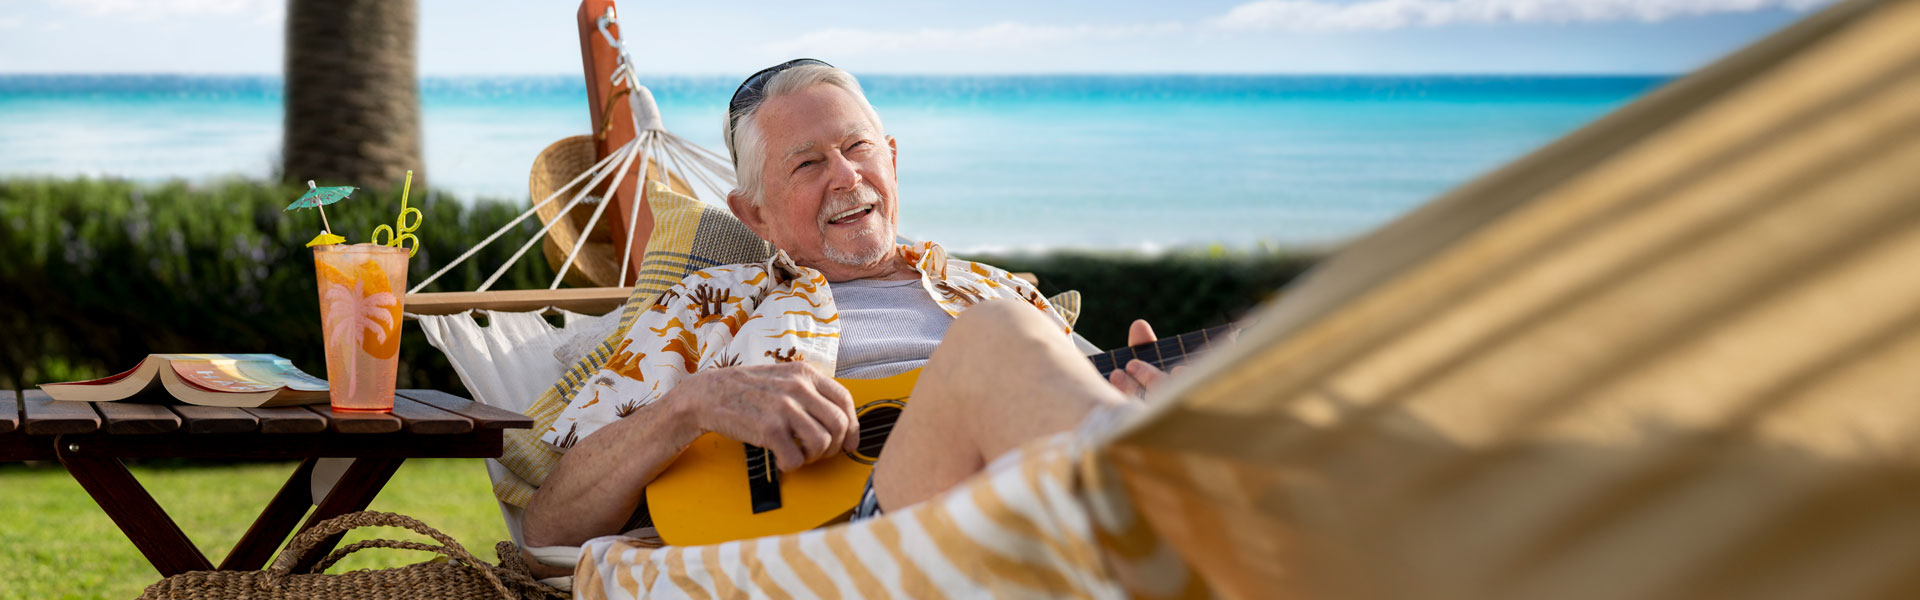
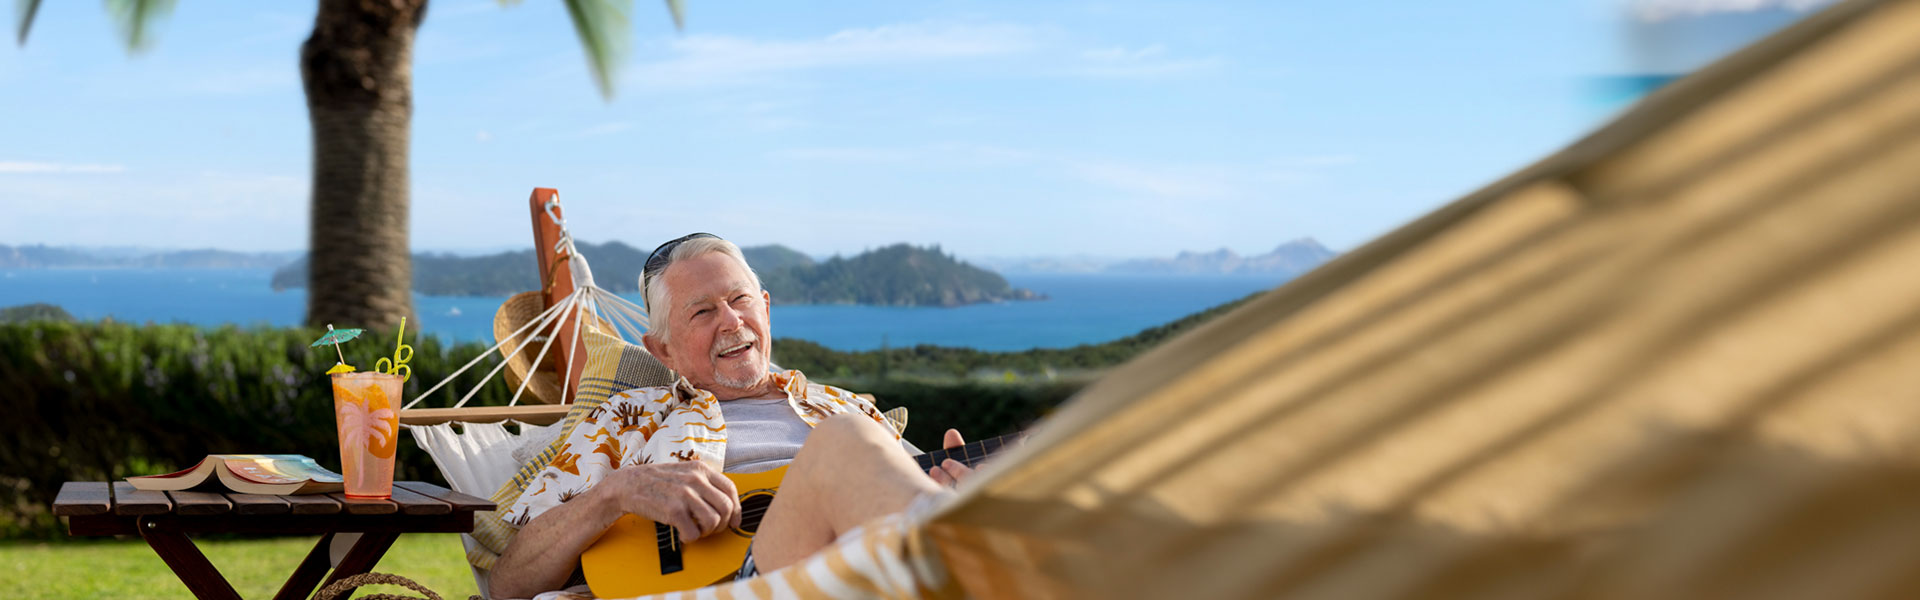
pre move the marketing message via component props

diff --git a/src/components/HeroSwitcher.jsx b/src/components/HeroSwitcher.jsx
@@ -10,6 +10,10 @@ import PanelLeft from "./PanelLeft";
 import PanelRight from "./PanelRight";
 import PanelCurvedTop from "./PanelCurvedTop;";
 import PanelCurvedBottom from "./PanelCurvedBottom";
+import HeroImagePhotoNana from "./HeroImagePhotoNana";
+
+import HeroImagePhotoDentures from "./HeroImagePhotoDentures";
+import HeroImageIllustration from "./HeroImageIllustration";
 
 function TabPanel(props) {
   const { children, value, index, ...other } = props;
@@ -52,39 +56,48 @@ export default function HeroSwitcher() {
       <Box sx={{ height: { lg: 600 } }}>
         <TabPanel value={value} index={0}>
           <>
-            <PanelTop sx={{ zIndex: 1, position: "absolute" }}>
-              <PanelLeft>
-                {/* Top Left */}
-                <PanelCurvedBottom />
-              </PanelLeft>
-            </PanelTop>
+            <HeroImageIllustration>
+              <PanelTop sx={{ zIndex: 1, position: "absolute" }}>
+                <PanelLeft>
+                  {/* Top Left */}
+                  <PanelCurvedBottom />
+                </PanelLeft>
+              </PanelTop>
+            </HeroImageIllustration>
           </>
         </TabPanel>
         <TabPanel value={value} index={1}>
           <>
-            <PanelTop sx={{ zIndex: 1, position: "absolute" }}>
-              <PanelRight>
-                {/* Top Right */}
-                <PanelCurvedBottom />
-              </PanelRight>
-            </PanelTop>
+            <HeroImagePhotoDentures>
+              <PanelTop sx={{ zIndex: 1, position: "absolute" }}>
+                <PanelRight>
+                  {/* Top Right */}
+                  <PanelCurvedBottom />
+                </PanelRight>
+              </PanelTop>
+            </HeroImagePhotoDentures>
           </>
         </TabPanel>
         <TabPanel value={value} index={2}>
-          <PanelBottom sx={{ zIndex: 1, position: "absolute" }}>
-            <PanelRight>
-              {/* Bottom Right */}
-              <PanelCurvedTop />
-            </PanelRight>
-          </PanelBottom>
+          <HeroImagePhotoDentures>
+            <PanelBottom sx={{ zIndex: 1, position: "absolute" }}>
+              <PanelRight>
+                {/* Bottom Right */}
+                <PanelCurvedTop />
+              </PanelRight>
+            </PanelBottom>
+          </HeroImagePhotoDentures>
         </TabPanel>
+
         <TabPanel value={value} index={3}>
-          <PanelBottom sx={{ zIndex: 1, position: "absolute" }}>
-            <PanelLeft>
-              {/* Bottom Left */}
-              <PanelCurvedTop />
-            </PanelLeft>
-          </PanelBottom>
+          <HeroImagePhotoNana>
+            <PanelBottom sx={{ zIndex: 1, position: "absolute" }}>
+              <PanelLeft>
+                {/* Bottom Left */}
+                <PanelCurvedTop />
+              </PanelLeft>
+            </PanelBottom>
+          </HeroImagePhotoNana>
         </TabPanel>
         <Box
           sx={{

diff --git a/src/components/HeroImageIllustration.jsx b/src/components/HeroImageIllustration.jsx
@@ -9,8 +9,8 @@ import { Grid, Box, Button, Typography } from "@mui/material/";
 // import HeroImage from "../images/dentures_DTP.jpg";
 // import HeroImageMobile from "../images/dentures_MOB.jpg";
 //NANAS TURKEY
-import HeroImage from "../images/nanas-turkey_DTP.jpg";
-import HeroImageMobile from "../images/nanas-turkey_MOB.jpg";
+import HeroImage from "../images/home-contents-illustration.png";
+import HeroImageMobile from "../images/home-contents-illustration.png";
 //JAMIES CAR
 // import HeroImage from "../images/jamies-car_DTP.jpg";
 // import HeroImageMobile from "../images/jamies-car_MOB.jpg";
@@ -29,13 +29,47 @@ import { Link } from "react-router-dom";
 import CTAZoneHomepage from "./CTAZoneHomepage";
 import HeroInnerContents from "./HeroInnerContents";
 import HeroSwitcher from "./HeroSwitcher";
-import HeroImagePhoto from "./HeroImagePhotoNana";
-export default function HeroHomepage() {
+
+export default function HeroImageIllustration({ children }) {
   return (
     <>
-      {/* <HeroImagePhoto>
+      {/* <Box sx={{ background: "transparent", zIndex: 1 }}>
         <HeroSwitcher />
-      </HeroImagePhoto> */}
+      </Box> */}
+
+      <Grid container direction="column">
+        <Grid item>
+          <Box
+            sx={{
+              height: {
+                xs: "100vh",
+                lg: "600px",
+              },
+              maxWidth: "1920px",
+              margin: "0 auto",
+              borderRadius: "4px",
+              backgroundImage: {
+                xs: `url(${HeroImageMobile})`,
+                lg: `url(${HeroImage})`,
+              },
+
+              backgroundSize: {
+                xs: "contain",
+                lg: "cover",
+              },
+              backgroundRepeat: "no-repeat",
+
+              backgroundPosition: {
+                xs: "top center",
+                lg: "bottom center",
+              },
+              backgroundColor: "#ebf4fb",
+            }}
+          >
+            {children}
+          </Box>
+        </Grid>
+      </Grid>
     </>
   );
 }

diff --git a/src/components/HeroImagePhotoDentures.jsx b/src/components/HeroImagePhotoDentures.jsx
@@ -1,0 +1,49 @@
+import * as React from "react";
+import { Grid, Box, Button, Typography } from "@mui/material/";
+
+//DENTURES
+import HeroImage from "../images/dentures_DTP.jpg";
+import HeroImageMobile from "../images/dentures_MOB.jpg";
+
+import PageLayout from "./PageLayout";
+// import PanelTopRight from "./PanelTop";
+
+export default function HeroImagePhotoDentures({ children }) {
+  return (
+    <>
+      {/* <Box sx={{ background: "transparent", zIndex: 1 }}>
+        <HeroSwitcher />
+      </Box> */}
+
+      <Grid container direction="column">
+        <Grid item>
+          <Box
+            sx={{
+              height: {
+                xs: "100vh",
+                lg: "600px",
+              },
+              maxWidth: "1920px",
+              margin: "0 auto",
+              borderRadius: "4px",
+              backgroundImage: {
+                xs: `url(${HeroImageMobile})`,
+                lg: `url(${HeroImage})`,
+              },
+
+              backgroundSize: {
+                xs: "contain",
+                lg: "cover",
+              },
+              backgroundRepeat: "no-repeat",
+
+              backgroundPosition: "top center",
+            }}
+          >
+            {children}
+          </Box>
+        </Grid>
+      </Grid>
+    </>
+  );
+}

diff --git a/src/components/HeroImagePhotoNana.jsx b/src/components/HeroImagePhotoNana.jsx
@@ -1,0 +1,45 @@
+import * as React from "react";
+import { Grid, Box, Button, Typography } from "@mui/material/";
+
+import HeroImage from "../images/nanas-turkey_DTP.jpg";
+import HeroImageMobile from "../images/nanas-turkey_MOB.jpg";
+
+export default function HeroImagePhotoNana({ children }) {
+  return (
+    <>
+      {/* <Box sx={{ background: "transparent", zIndex: 1 }}>
+        <HeroSwitcher />
+      </Box> */}
+
+      <Grid container direction="column">
+        <Grid item>
+          <Box
+            sx={{
+              height: {
+                xs: "100vh",
+                lg: "600px",
+              },
+              maxWidth: "1920px",
+              margin: "0 auto",
+              borderRadius: "4px",
+              backgroundImage: {
+                xs: `url(${HeroImageMobile})`,
+                lg: `url(${HeroImage})`,
+              },
+
+              backgroundSize: {
+                xs: "contain",
+                lg: "cover",
+              },
+              backgroundRepeat: "no-repeat",
+
+              backgroundPosition: "top center",
+            }}
+          >
+            {children}
+          </Box>
+        </Grid>
+      </Grid>
+    </>
+  );
+}

diff --git a/src/pages/Home.jsx b/src/pages/Home.jsx
@@ -9,12 +9,13 @@ import BasicCard from "../components/Card";
 import HeaderBrochure from "../components/HeaderBrochure";
 import { Link } from "react-router-dom";
 import HeroHomepage from "../components/HeroHomepage";
+import HeroSwitcher from "../components/HeroSwitcher";
 
 export default function Home() {
   return (
     <>
       <HeaderBrochure />
-      <HeroHomepage />
+      <HeroSwitcher />
 
       <PageLayout>
         <Box sx={{ mt: 10 }} />

diff --git a/src/components/PanelTop.jsx b/src/components/PanelTop.jsx
@@ -22,7 +22,7 @@ export default function PanelTop({ children }) {
             lg: "0 0 auto",
           },
           alignSelf: "stretch",
-          background: "rgba(50,120,0,0.25)",
+          // background: "rgba(50,120,0,0.25)",
           zIndex: 1,
         }}
       ></Box>

diff --git a/src/components/PanelCurvedBottom.jsx b/src/components/PanelCurvedBottom.jsx
@@ -15,7 +15,7 @@ export default function PanelCurvedBottom({ children }) {
             xs: 2,
             lg: 6,
           },
-          mx: {
+          mr: {
             xs: 0,
             lg: 8,
           },

diff --git a/src/components/PanelCurvedTop;.jsx b/src/components/PanelCurvedTop;.jsx
@@ -18,7 +18,7 @@ export default function PanelCurvedTop({ children }) {
             xs: 2,
             lg: 6,
           },
-          mx: {
+          mr: {
             xs: 0,
             lg: 8,
           },

diff --git a/src/components/HeroStructure.md b/src/components/HeroStructure.md
@@ -1,3 +1,7 @@
+## Home
 
+## HeroSwitcher // Tab Switcher
 
+## HeroImagePhoto // image added
 
+HeroImagePhoto<name> HeroImageIllustration<name>
